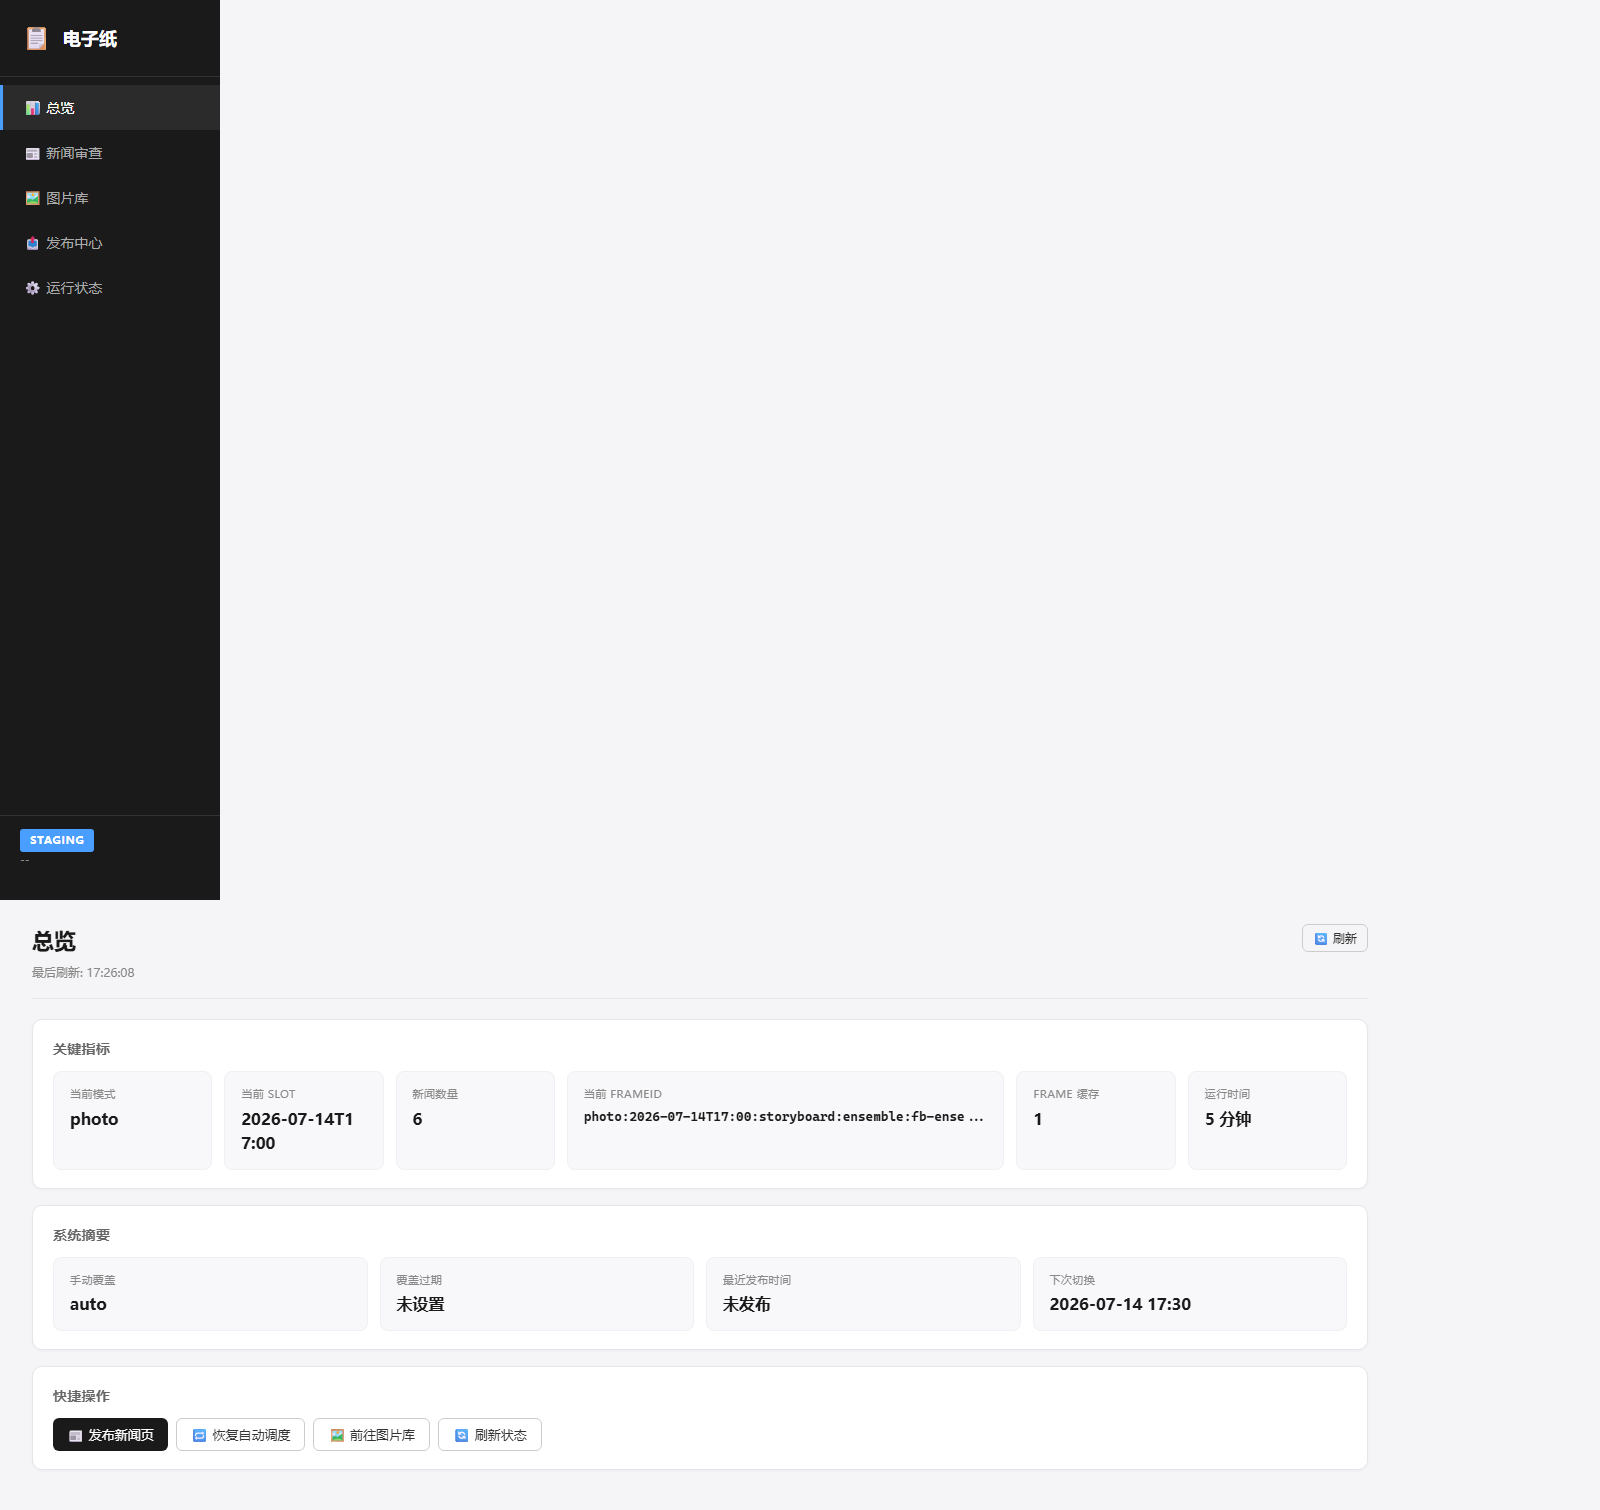
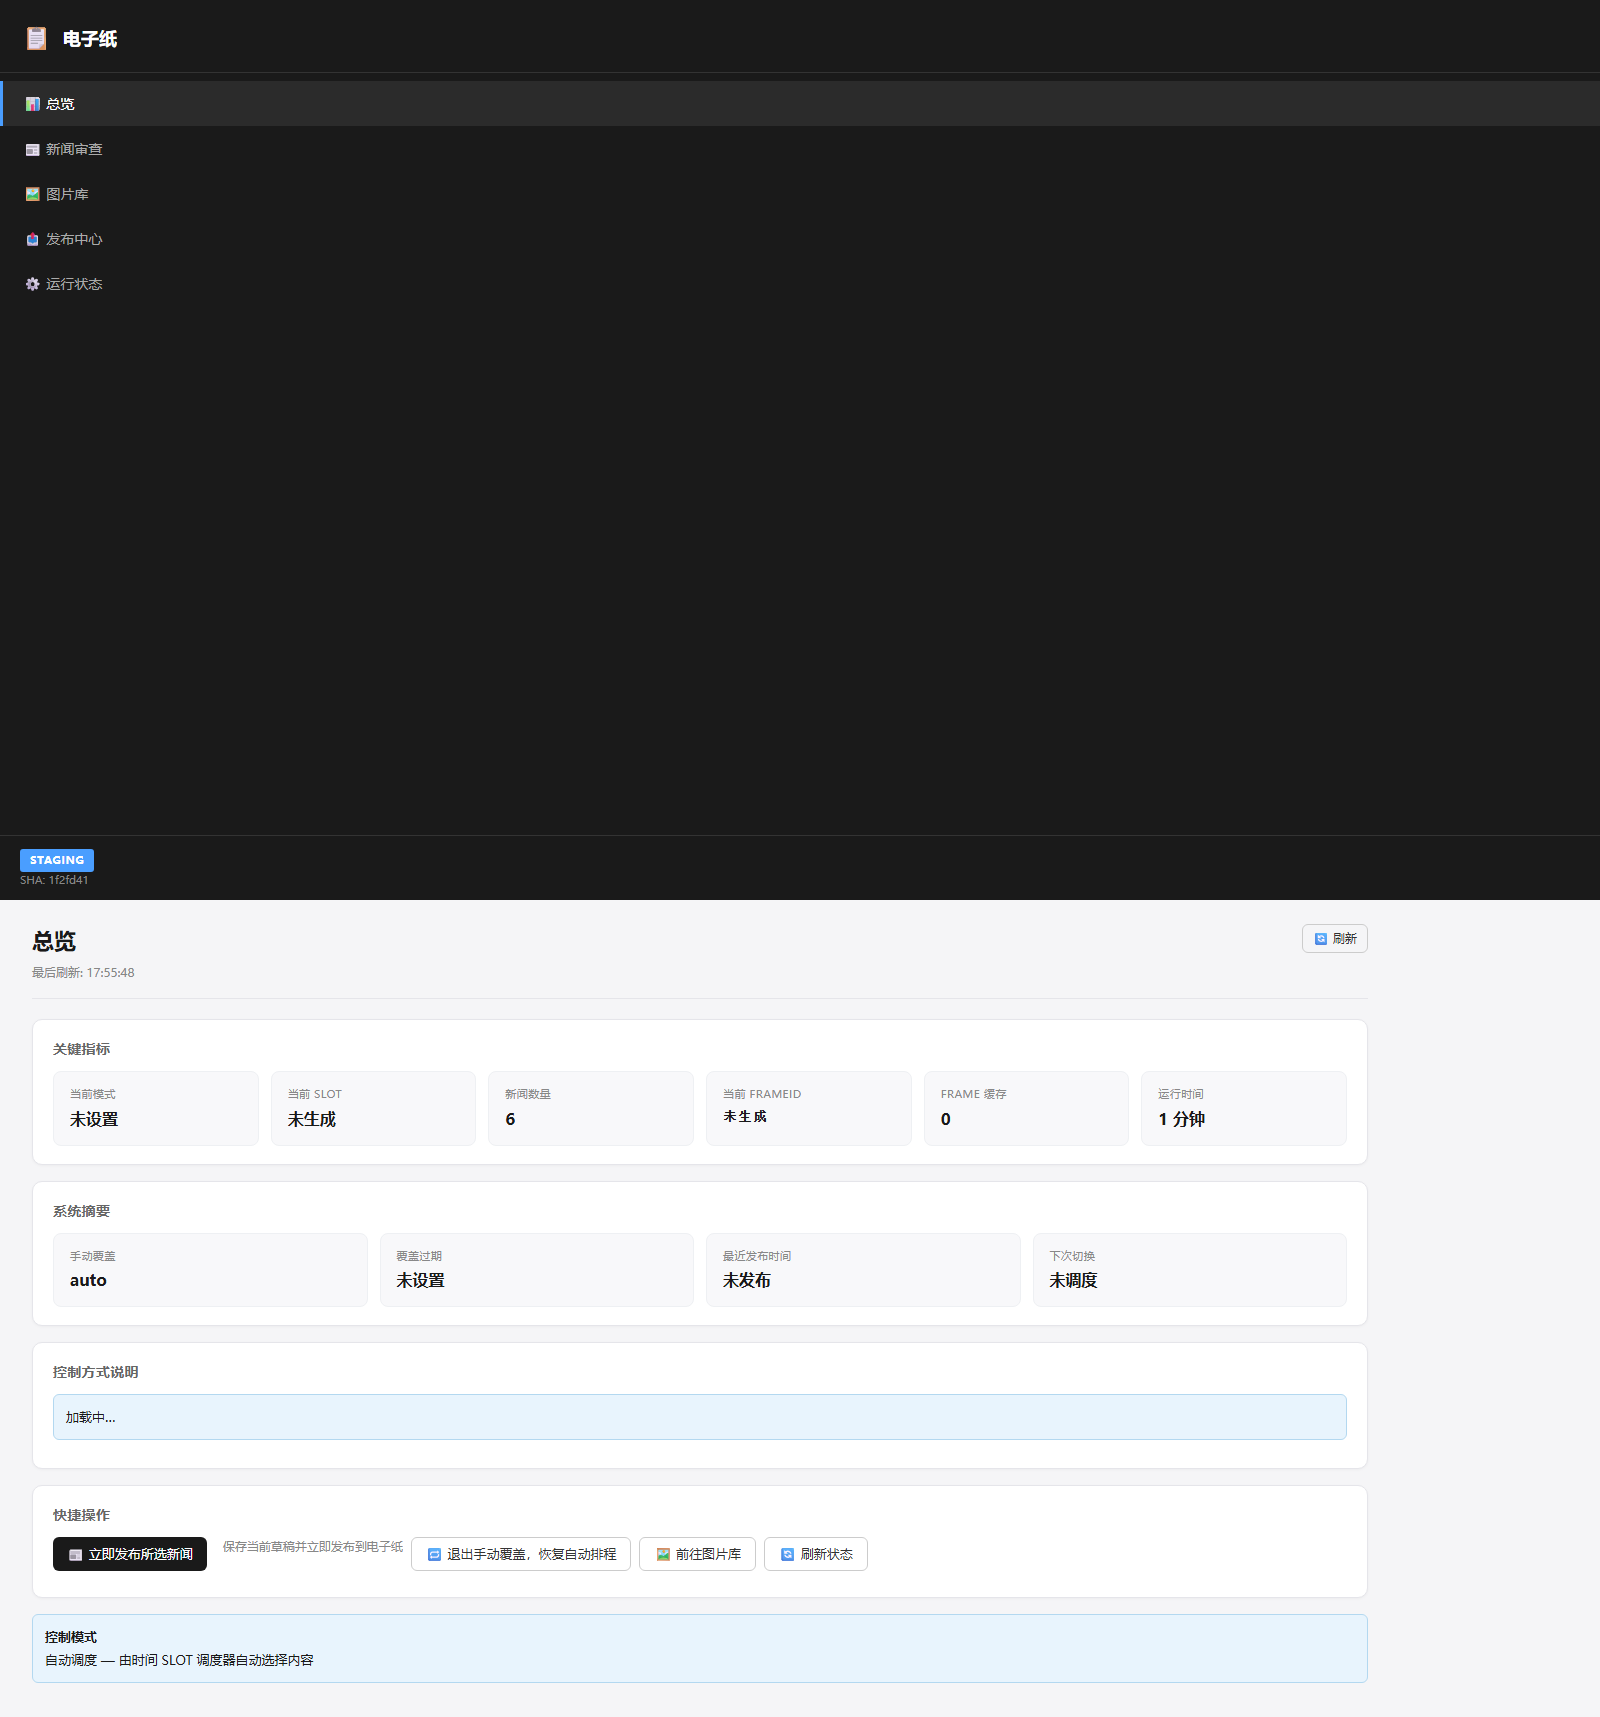
fix(layout): show() must use display:grid for #app, sidebar overflow:hidden

diff --git a/paper_content_server/public/admin/admin.css b/paper_content_server/public/admin/admin.css
@@ -4,7 +4,7 @@ body{background:#f5f5f7;color:#1a1a1a;min-height:100vh;font-size:14px;line-heigh
 
 /* ─── Grid layout — critical fix ─── */
 .layout{display:grid;grid-template-columns:220px minmax(0,1fr);min-height:100vh}
-.sidebar{background:#1a1a1a;color:#fff;display:flex;flex-direction:column;position:sticky;top:0;height:100vh}
+.sidebar{background:#1a1a1a;color:#fff;display:flex;flex-direction:column;position:sticky;top:0;height:100vh;overflow:hidden}
 .sidebar .brand{padding:20px;padding-bottom:16px;border-bottom:1px solid #333;display:flex;align-items:center;gap:10px;flex-shrink:0}
 .sidebar .brand-icon{font-size:24px;flex-shrink:0}
 .sidebar .brand-name{font-size:18px;font-weight:700}

diff --git a/paper_content_server/public/admin/admin.js b/paper_content_server/public/admin/admin.js
@@ -6,7 +6,7 @@ var SELECTED_NEWS_IDX = -1;
 var NEWS_BASELINE = null;
 
 function $(id){return document.getElementById(id)}
-function show(el){if(el)el.style.display='block'}
+function show(el){if(!el)return;if(el.id==='app'){el.style.display='grid'}else{el.style.display='block'}}
 function hide(el){if(el)style_display(el,'none')}
 function style_display(el,val){if(el)el.style.display=val}
 function qs(s,p){return(p||document).querySelector(s)}

diff --git a/verify_deploy.py b/verify_deploy.py
@@ -1,0 +1,36 @@
+import urllib.request, json
+base = 'http://192.168.1.49:18080'
+tests = [
+    ('/health/live', ['status']),
+    ('/health/ready', ['status']),
+    ('/api/health.json', ['status','uptimeSeconds','currentMode','frameId','newsItemCount','photoCount']),
+    ('/api/admin/dashboard', ['status','currentMode','newsItemCount','manualOverride','lastPublishedAt']),
+    ('/api/admin/news', ['selected']),
+    ('/api/admin/photos', ['photos']),
+    ('/api/admin/publish-history', ['history']),
+]
+for path, keys in tests:
+    try:
+        r = urllib.request.urlopen(base + path)
+        body = r.read().decode()
+        d = json.loads(body)
+        missing = [k for k in keys if k not in d]
+        if missing:
+            print(f'FAIL {path}: missing keys {missing}')
+        else:
+            print(f'PASS {path}: {200} ' + ' '.join(f'{k}={str(d[k])[:40]}' for k in keys[:3]))
+    except Exception as e:
+        print(f'FAIL {path}: {e}')
+print('---')
+r = urllib.request.urlopen(base + '/api/admin/news')
+news = json.loads(r.read())
+print(f'News count: {len(news.get("selected",[]))}')
+if news.get('selected'):
+    n = news['selected'][0]
+    print(f'First news: title="{n.get("title","?")[:40]}" summary="{n.get("summary","?")[:40]}" source={n.get("source")} translationStatus={n.get("translationStatus")}')
+r = urllib.request.urlopen(base + '/api/admin/publish-history')
+hist = json.loads(r.read())
+print(f'History count: {len(hist.get("history",[]))}')
+for h in hist.get('history', [])[:3]:
+    print(f'  {h.get("publishedAt","")[:19]} type={h.get("type")} status={h.get("status")}')
+print('DONE')